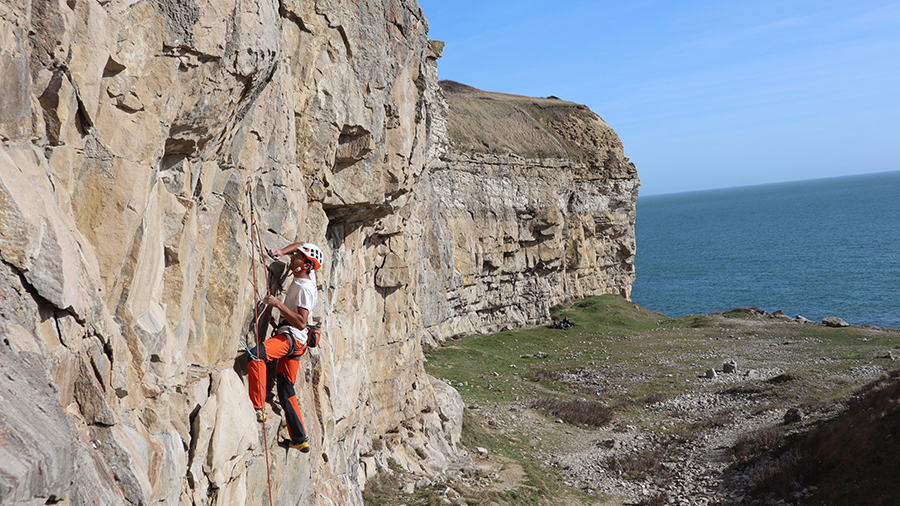
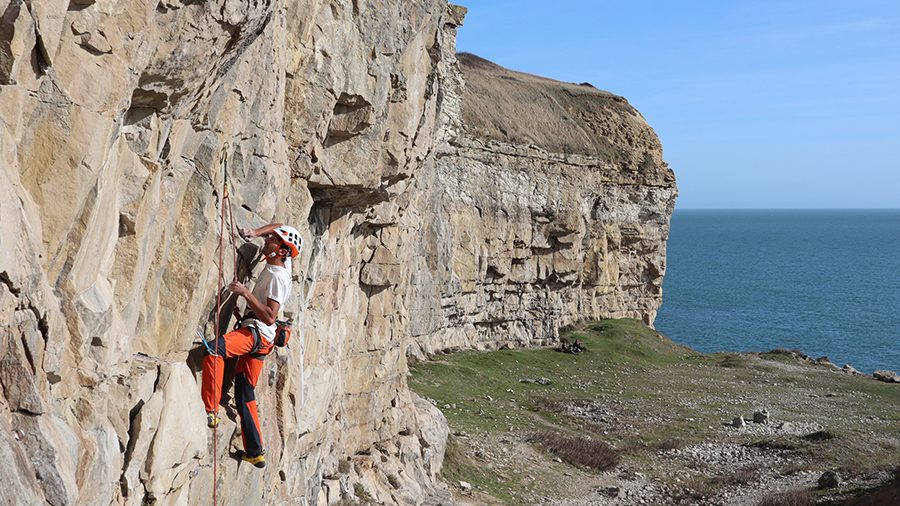
leveled hero

diff --git a/src/styles/index.scss b/src/styles/index.scss
@@ -40,7 +40,7 @@ main {
             word-spacing: 100vw;
         }
         &-img {
-            width: 900px;
+            width: 850px;
         }
     }
     
